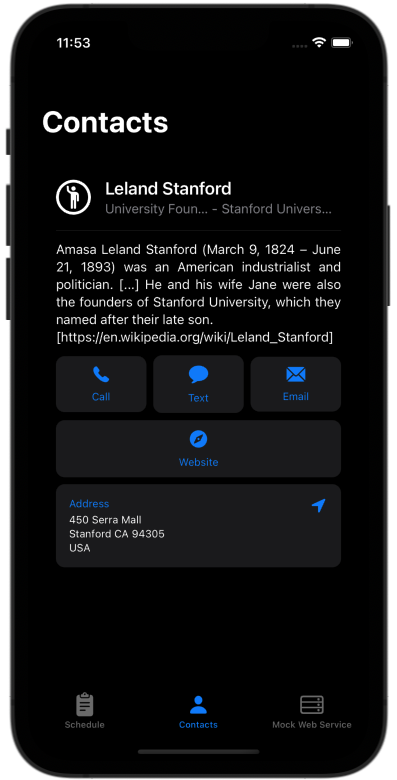
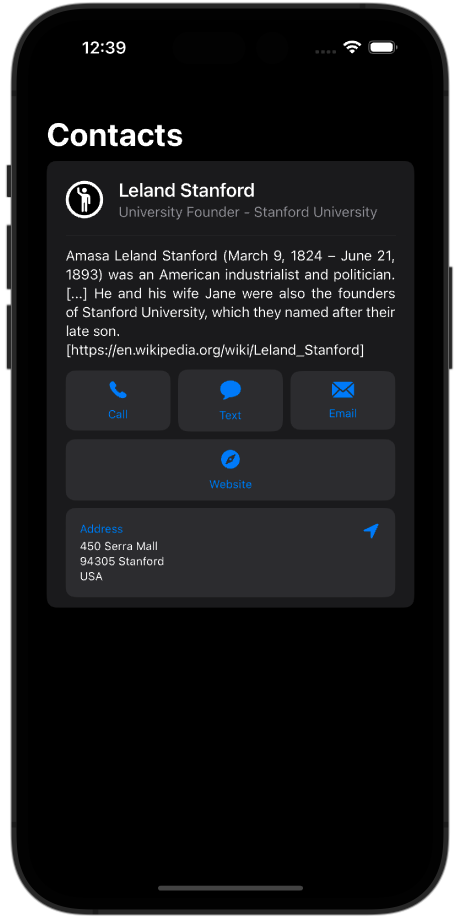
Update documentation (#21)
# Update documentation

## :recycle: Current situation & Problem
This PR updates some of the documentation. Most importantly it adds
updated screenshots of the `ContactsList` view.

## :gear: Release Notes 
* Update screenshots and documentation

## :pencil: Code of Conduct & Contributing Guidelines 

By submitting creating this pull request, you agree to follow our [Code
of
Conduct](https://github.com/StanfordSpezi/.github/blob/main/CODE_OF_CONDUCT.md)
and [Contributing
Guidelines](https://github.com/StanfordSpezi/.github/blob/main/CONTRIBUTING.md):
- [x] I agree to follow the [Code of
Conduct](https://github.com/StanfordSpezi/.github/blob/main/CODE_OF_CONDUCT.md)
and [Contributing
Guidelines](https://github.com/StanfordSpezi/.github/blob/main/CONTRIBUTING.md).

diff --git a/Tests/UITests/TestApp/ContactsTestsView.swift b/Tests/UITests/TestApp/ContactsTestsView.swift
@@ -11,6 +11,44 @@ import SwiftUI
 
 
 struct ContactsTestsView: View {
+    @MainActor static let leland = Contact(
+        name: PersonNameComponents(
+            givenName: "Leland",
+            familyName: "Stanford"
+        ),
+        image: Image(systemName: "figure.wave.circle"), // swiftlint:disable:this accessibility_label_for_image
+        title: "University Founder",
+        description: """
+                     Amasa Leland Stanford (March 9, 1824 – June 21, 1893) was an American industrialist and politician. [...] \
+                     He and his wife Jane were also the founders of Stanford University, which they named after their late son.
+                     [https://en.wikipedia.org/wiki/Leland_Stanford]
+                     """,
+        organization: "Stanford University",
+        address: {
+            let address = CNMutablePostalAddress()
+            address.country = "USA"
+            address.state = "CA"
+            address.postalCode = "94305"
+            address.city = "Stanford"
+            address.street = "450 Serra Mall"
+            return address
+        }(),
+        contactOptions: [
+            .call("+1 (650) 723-2300"),
+            .text("+1 (650) 723-2300"),
+            .email(addresses: ["contact@stanford.edu"]),
+            ContactOption(
+                image: Image(systemName: "safari.fill"), // swiftlint:disable:this accessibility_label_for_image
+                title: "Website",
+                action: {
+                    if let url = URL(string: "https://stanford.edu") {
+                        UIApplication.shared.open(url)
+                    }
+                }
+            )
+        ]
+    )
+
     static let mock = Contact(
         name: PersonNameComponents(givenName: "Paul", familyName: "Schmiedmayer"),
         image: Image(systemName: "figure.wave.circle"), // swiftlint:disable:this accessibility_label_for_image
@@ -38,10 +76,10 @@ struct ContactsTestsView: View {
             ContactOption(image: Image(systemName: "icloud.fill"), title: "Cloud", action: { })
         ]
     )
-    
-    
+
+
     var body: some View {
-        ContactsList(contacts: [ContactsTestsView.mock, ContactsTestsView.mock])
+        ContactsList(contacts: [ContactsTestsView.mock, ContactsTestsView.leland])
             .navigationTitle("Contacts")
             .background(Color(.systemGroupedBackground))
     }

diff --git a/Sources/SpeziContact/Contact Views/ContactView.swift b/Sources/SpeziContact/Contact Views/ContactView.swift
@@ -7,7 +7,7 @@
 //
 
 import Contacts
-import MessageUI
+@_implementationOnly import MessageUI
 import SpeziPersonalInfo
 import SpeziViews
 import SwiftUI
@@ -238,9 +238,44 @@ struct ContactView_Previews: PreviewProvider {
             ]
         )
     }
-    
-    
+
+    static let leland = Contact(
+        name: PersonNameComponents(
+            givenName: "Leland",
+            familyName: "Stanford"
+        ),
+        image: Image(systemName: "figure.wave.circle"),
+        title: "University Founder",
+        description: """
+                     Amasa Leland Stanford (March 9, 1824 – June 21, 1893) was an American industrialist and politician. [...] \
+                     He and his wife Jane were also the founders of Stanford University, which they named after their late son.
+                     [https://en.wikipedia.org/wiki/Leland_Stanford]
+                     """,
+        organization: "Stanford University",
+        address: {
+            let address = CNMutablePostalAddress()
+            address.country = "USA"
+            address.state = "CA"
+            address.postalCode = "94305"
+            address.city = "Stanford"
+            address.street = "450 Serra Mall"
+            return address
+        }(),
+        contactOptions: [
+            .call("+1 (650) 723-2300"),
+            .text("+1 (650) 723-2300"),
+            .email(addresses: ["contact@stanford.edu"]),
+            ContactOption(
+                image: Image(systemName: "safari.fill"),
+                title: "Website",
+                action: {}
+            )
+        ]
+    )
+
+
     static var previews: some View {
+        ContactView(contact: Self.leland)
         ContactView(contact: Self.mock)
     }
 }

diff --git a/Tests/UITests/TestAppUITests/SpeziContactsTests.swift b/Tests/UITests/TestAppUITests/SpeziContactsTests.swift
@@ -14,13 +14,14 @@ final class ContactsTests: XCTestCase {
         let app = XCUIApplication()
         app.launch()
 
-        XCTAssertEqual(app.staticTexts.matching(identifier: "Contact: Paul Schmiedmayer").count, 2)
-        XCTAssertEqual(app.staticTexts.matching(identifier: "A Title at Stanford University").count, 2)
+
+        XCTAssertTrue(app.staticTexts["Contact: Paul Schmiedmayer"].waitForExistence(timeout: 2.0))
+        XCTAssertTrue(app.staticTexts["A Title at Stanford University"].exists)
         
         let labelPredicate = NSPredicate(format: "label CONTAINS[c] %@", "This is a description")
         XCTAssert(app.staticTexts.element(matching: labelPredicate).exists)
         
-        XCTAssertEqual(app.buttons.matching(identifier: "Call").count, 4)
+        XCTAssertEqual(app.buttons.matching(identifier: "Call").count, 3)
         app.buttons.matching(identifier: "Call").element(boundBy: 0).tap()
         app.alerts["Call"].scrollViews.otherElements.buttons["Ok"].tap()
         
@@ -42,7 +43,7 @@ final class ContactsTests: XCTestCase {
         app.buttons.matching(identifier: "Email").element(boundBy: 0).tap()
         app.alerts["Email"].scrollViews.otherElements.buttons["Ok"].tap()
         
-        XCTAssertEqual(app.buttons.matching(identifier: "Cloud").count, 2)
+        XCTAssertEqual(app.buttons.matching(identifier: "Cloud").count, 1)
         app.buttons.matching(identifier: "Cloud").element(boundBy: 0).tap()
 
         let predicate = NSPredicate(format: "label BEGINSWITH 'Address: 450 Serra Mall'")

diff --git a/Sources/SpeziContact/Contact Views/ContactsList.swift b/Sources/SpeziContact/Contact Views/ContactsList.swift
@@ -47,8 +47,7 @@ struct ContactsList_Previews: PreviewProvider {
         NavigationStack {
             ContactsList(
                 contacts: [
-                    ContactView_Previews.mock,
-                    ContactView_Previews.mock,
+                    ContactView_Previews.leland,
                     ContactView_Previews.mock
                 ]
             )

diff --git a/Package.swift b/Package.swift
@@ -21,7 +21,7 @@ let package = Package(
         .library(name: "SpeziContact", targets: ["SpeziContact"])
     ],
     dependencies: [
-        .package(url: "https://github.com/StanfordSpezi/SpeziViews", .upToNextMinor(from: "0.6.0"))
+        .package(url: "https://github.com/StanfordSpezi/SpeziViews", from: "1.0.0")
     ],
     targets: [
         .target(

diff --git a/Sources/SpeziContact/Models/Contact.swift b/Sources/SpeziContact/Models/Contact.swift
@@ -6,7 +6,7 @@
 // SPDX-License-Identifier: MIT
 //
 
-@_exported import Contacts
+@_exported import Contacts.CNPostalAddress
 import SwiftUI
 
 

diff --git a/Sources/SpeziContact/Models/ContactOption.swift b/Sources/SpeziContact/Models/ContactOption.swift
@@ -6,7 +6,7 @@
 // SPDX-License-Identifier: MIT
 //
 
-import MessageUI
+@_implementationOnly import MessageUI
 import SwiftUI
 
 
